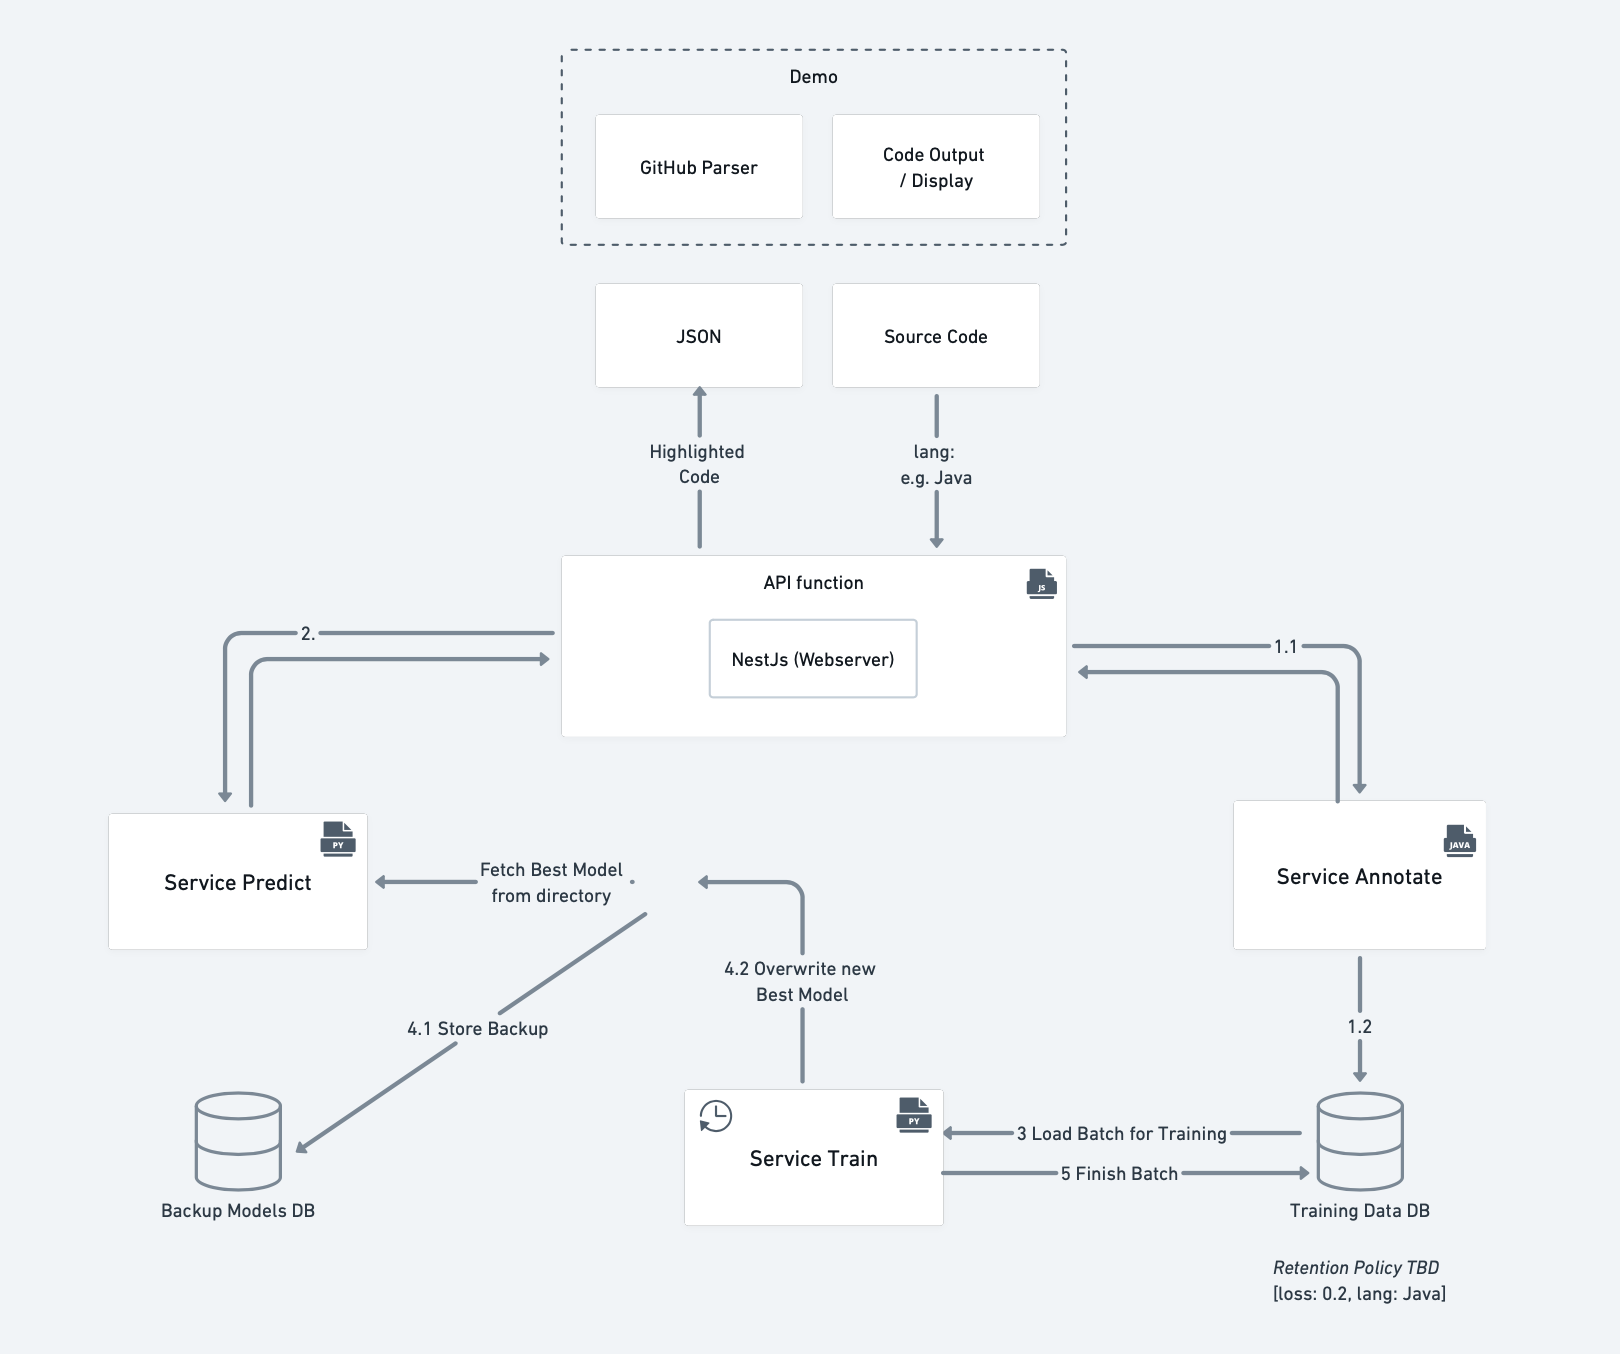
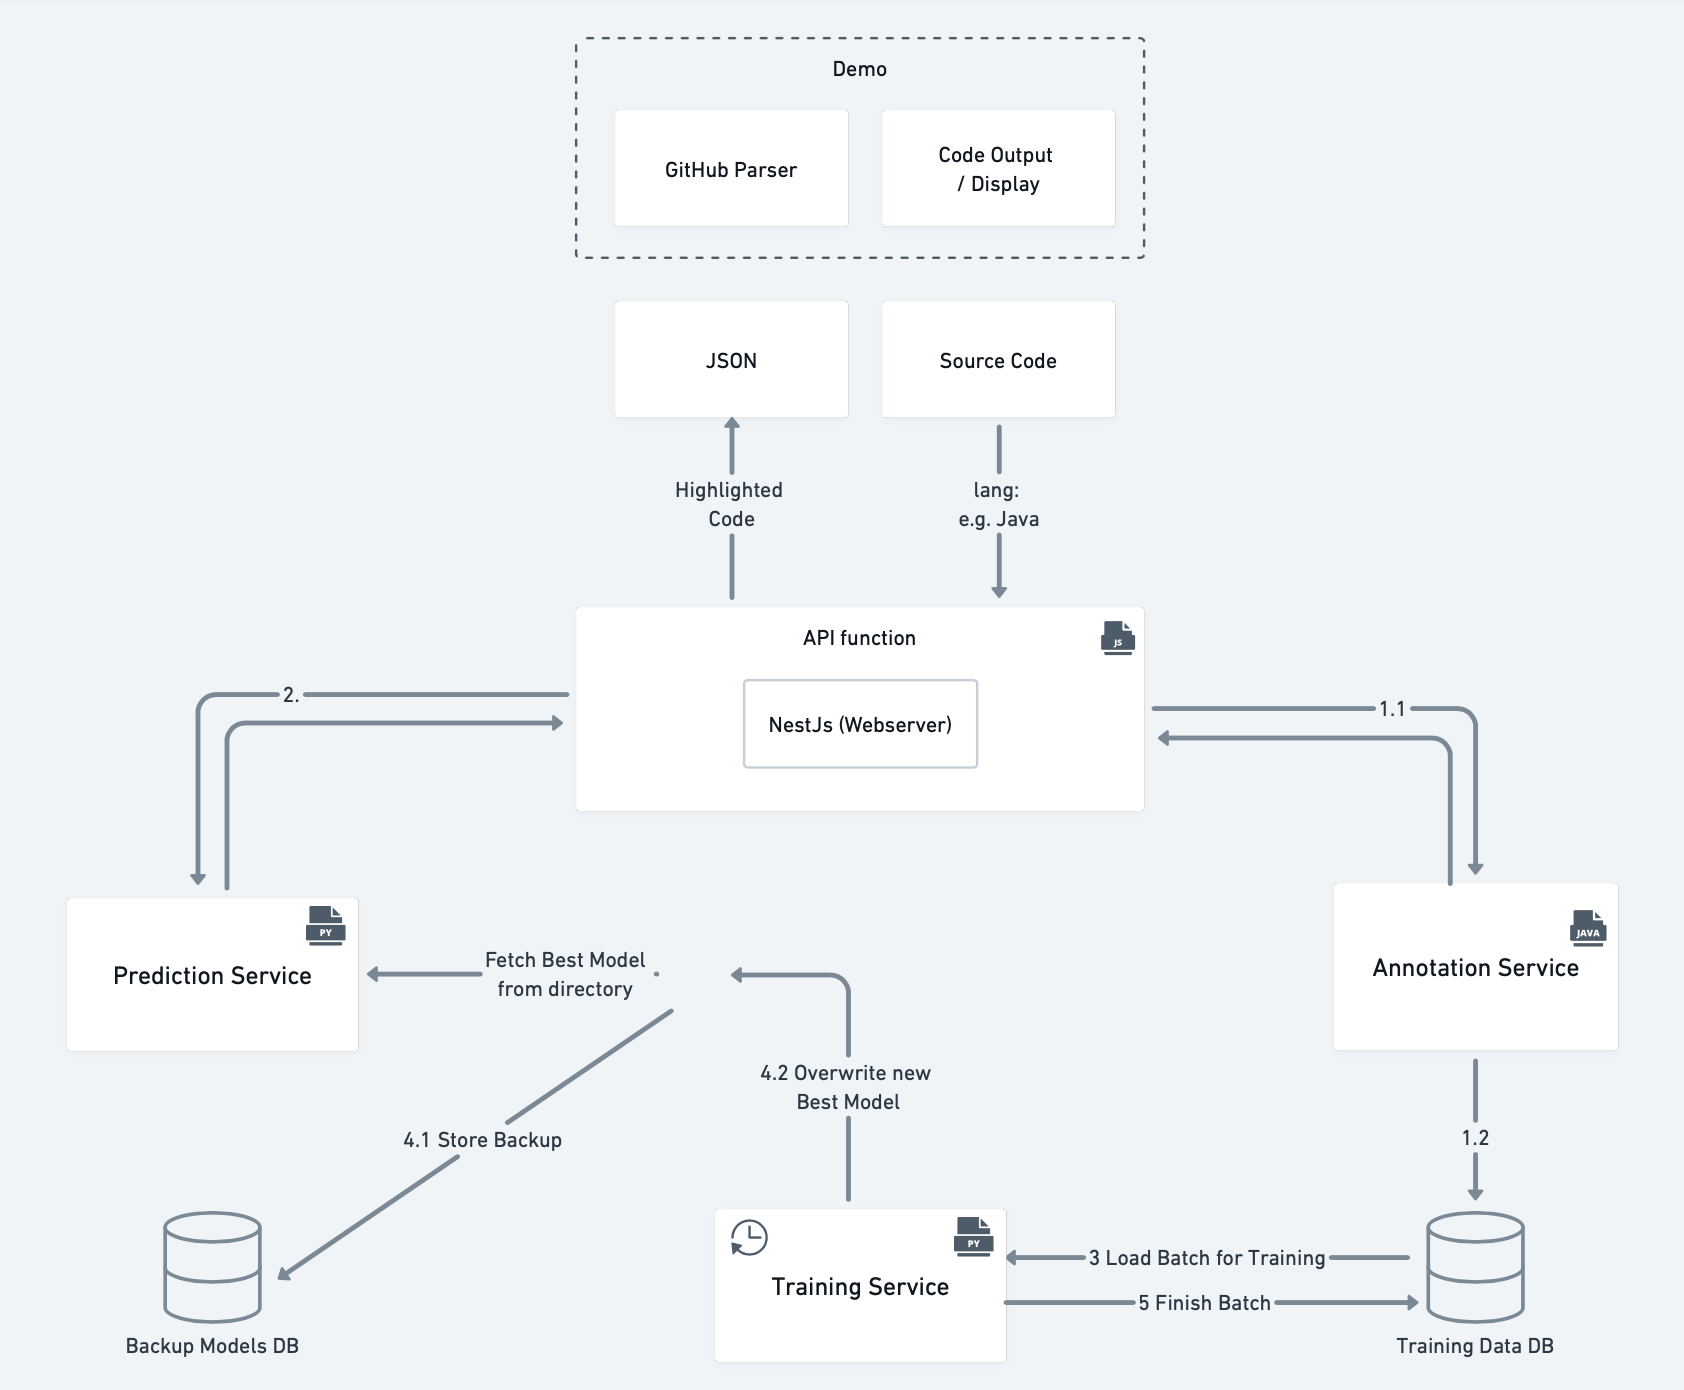
cronjob implemented

diff --git a/training-service/app.py b/training-service/app.py
@@ -1,11 +1,12 @@
 import logging
-from model.SHModelUtils import SHModel
-from flask import Flask, Response, request, jsonify
-from flask_mongoengine import MongoEngine
-from sklearn.utils import shuffle
 import numpy as np
 import os
 import datetime
+from model.SHModelUtils import SHModel
+from flask import Flask, Response, request, jsonify
+from flask_mongoengine import MongoEngine
+from apscheduler.schedulers.background import BackgroundScheduler
+from sklearn.utils import shuffle
 
 app = Flask(__name__)
 app.config['MONGODB_SETTINGS'] = {
@@ -41,17 +42,12 @@ class Annotation(db.Document):
         'strict': False
     }
 
-    def to_json(self):
-        return {
-            "sourceCode": self.sourceCode,
-            "lexingTokes": self.lexingTokes,
-            "highlightingTokens": self.highlightingTokens,
-            "highlightingCode": self.highlightingCode,
-            "language": self.language
-        }
-
 @app.route('/train', methods=['GET'])
 def train():    
+    train_models()
+    return Response(status=200)
+
+def train_models():
     print("[TRAIN] ### TRAINING STARTED ### ", flush=True)
 
     supported_languages = ["java"]
@@ -64,7 +60,7 @@ def train():
         if len(training_data) < int(os.environ.get('TRAINING_BATCH_SIZE')):
             print("[TRAIN] Not enough data to train model", flush=True)
             continue
-        
+
         # data preprocessing
         X = []
         T = []
@@ -77,8 +73,6 @@ def train():
         improve_model(X, T, lang_name)
 
     print("[TRAIN] ### TRAINING DONE ### ", flush=True)
-    return Response(status=200)
-
 
 def load_cur_model_from_db(lang_name):
     cur_model = Model.objects(language=lang_name).order_by('-createdTime').first()
@@ -166,6 +160,15 @@ def accuracy(model, X, T):
             total += 1
 
     return correct/total
+
+
+def training_service():
+    print("Training Service is alive!", flush=True)
+    train_models()
+
+sched = BackgroundScheduler(daemon=True)
+sched.add_job(training_service, 'interval', minutes=5)
+sched.start()
 
 if __name__ == "__main__":
     app.run(debug=True)

diff --git a/README.md b/README.md
@@ -22,9 +22,9 @@ Under the hood, the Annotation WebService consists of the following independent 
 
 | Microservice             | Description                                                                | Technology |
 |--------------------|----------------------------------------------------------------------------|------------|
-| [Service Annotation]() | Handles the lexing and highlighting of code. | Java with [Spring Boot](https://github.com/spring-projects/spring-boot)|
-| [Service Predict]()  | Handles the prediction of syntax highlighting.         | Python with [Flask](https://github.com/pallets/flask) |
-| [Service Train]()   | Handles the regularily conducted training and exchange of the underlying prediction models.         | Python with [Flask](https://github.com/pallets/flask) |
+| [Annotation Service]() | Handles the lexing and highlighting of code. | Java with [Spring Boot](https://github.com/spring-projects/spring-boot)|
+| [Prediction Service]()  | Handles the prediction of syntax highlighting.         | Python with [Flask](https://github.com/pallets/flask) |
+| [Training Service]()   | Handles the regularily conducted training and exchange of the underlying prediction models.         | Python with [Flask](https://github.com/pallets/flask) |
 | [Web API]()          | The web API that acts as the primary entry point for the customers.        | JS/TS with [Nest.js](https://github.com/nestjs/nest) |
 
 
@@ -34,11 +34,11 @@ The following illustration depicts the flow of the Annotation WebService.
 ![Architecture](./architecture.png)
 
 After having called the `Web API` with code to be syntax highlighted, the following will be processed:
-1. The code will be lexed and highlighted. This is done by the `Service Annotate` microservice. The lexed code will be returned to the `Web API` whereas the highlighted code will be stored on the Training Database.
-2. The `Web API` will then forward the `tok_ids` extracted from the lexed code to the `Service Predict` microservice where the syntax highlighting is beeing predicted. The predicted syntax highlighting will be returned to the `Web API`.
+1. The code will be lexed and highlighted. This is done by the `Annotation Service` microservice. The lexed code will be returned to the `Web API` whereas the highlighted code will be stored on the Training Database.
+2. The `Web API` will then forward the `tok_ids` extracted from the lexed code to the `Prediction Service` microservice where the syntax highlighting is beeing predicted. The predicted syntax highlighting will be returned to the `Web API`.
 3. Having received the predicted `h_code_values` the `Web API` will create a json file with the highlighted code which will be returned to the caller.
 
-Regularily, the `Service Train` will be triggered to train the underlying prediction models. First, it will load training data from the Training Database. Then, it will train the underlying prediction models with 80% of the data and validate the improved model with the remaining 20% of the data. If the loss is smaller on the new model than the old one, the new model will be saved. Every time the `Service Predict` is invoked, the new best model will be loaded and used for the prediction.
+Regularily, the `Training Service` will be triggered to train the underlying prediction models. First, it will load training data from the Training Database. Then, it will train the underlying prediction models with 80% of the data and validate the improved model with the remaining 20% of the data. If the loss is smaller on the new model than the old one, the new model will be saved. Every time the `Prediction Service` is invoked, the new best model will be loaded and used for the prediction.
 
 ## Demo
 Here comes the demo page.

diff --git a/code-fetcher/README.md b/code-fetcher/README.md
@@ -1,5 +1,7 @@
 # code-fetcher
 
+Note: dot_env only works on INTEL chips. If you are running on a M1 chip, you need to hard code the environment variables.
+
 1. Set languages in `main.py`
 2. Add GITHUB_ACCESS_TOKEN (see here: https://docs.github.com/en/enterprise-cloud@latest/authentication/keeping-your-account-and-data-secure/creating-a-personal-access-token) in `.env` and consider changing MAX_FILES
 3. Make sure docker-compose is up
